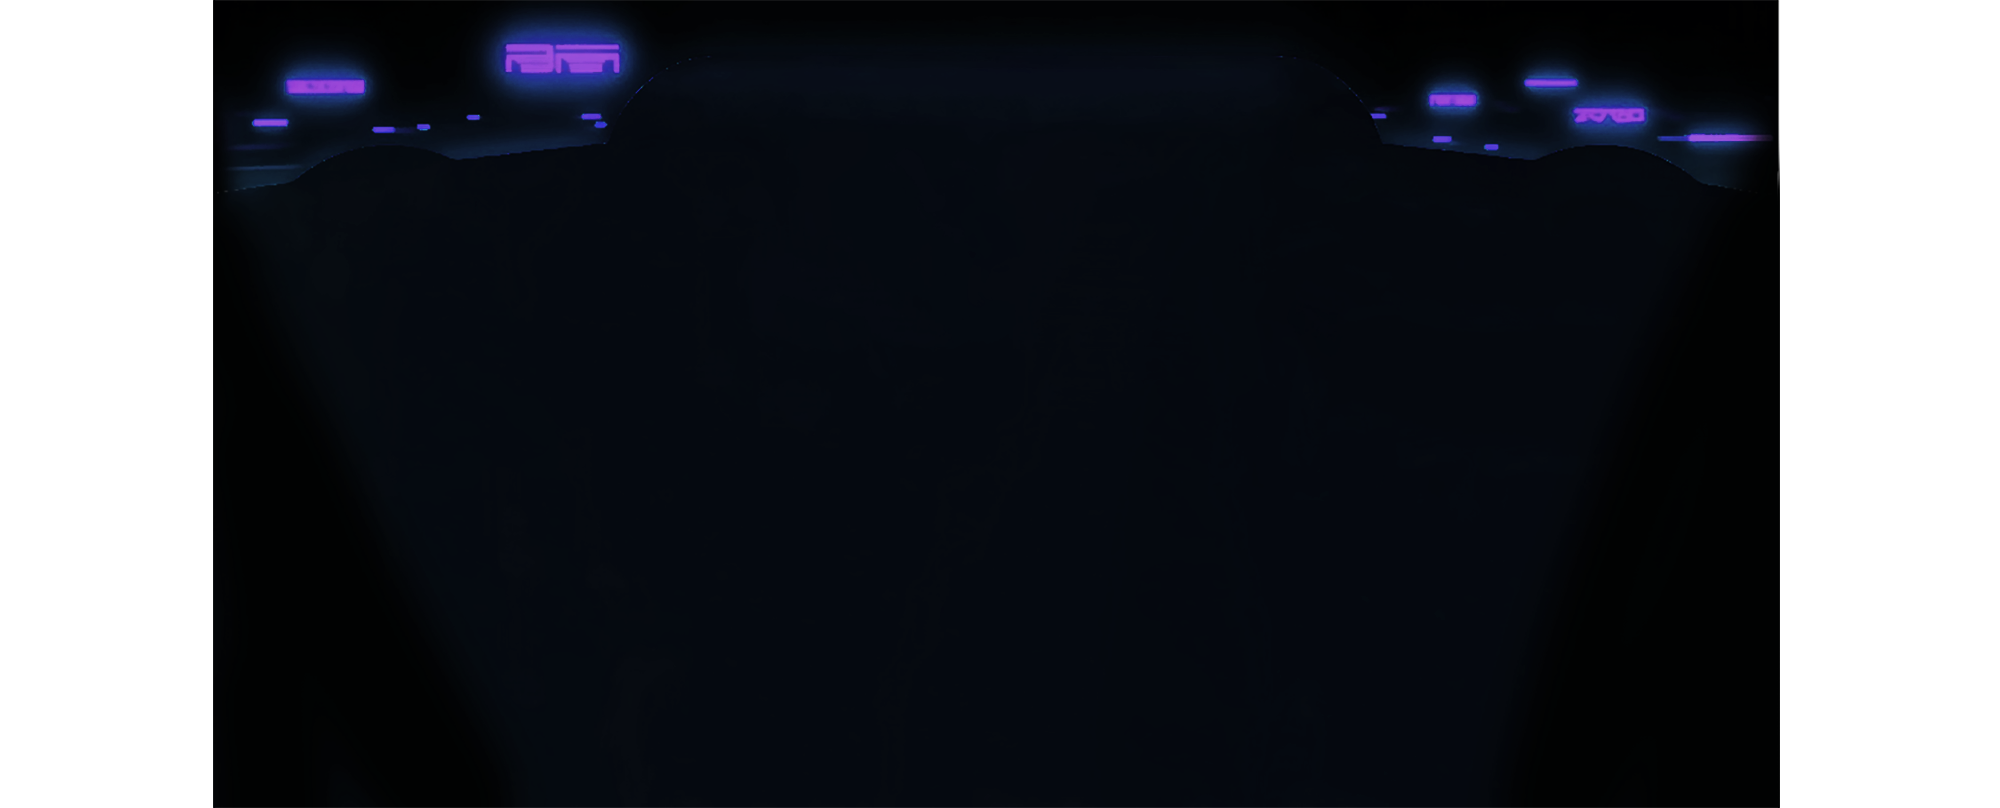
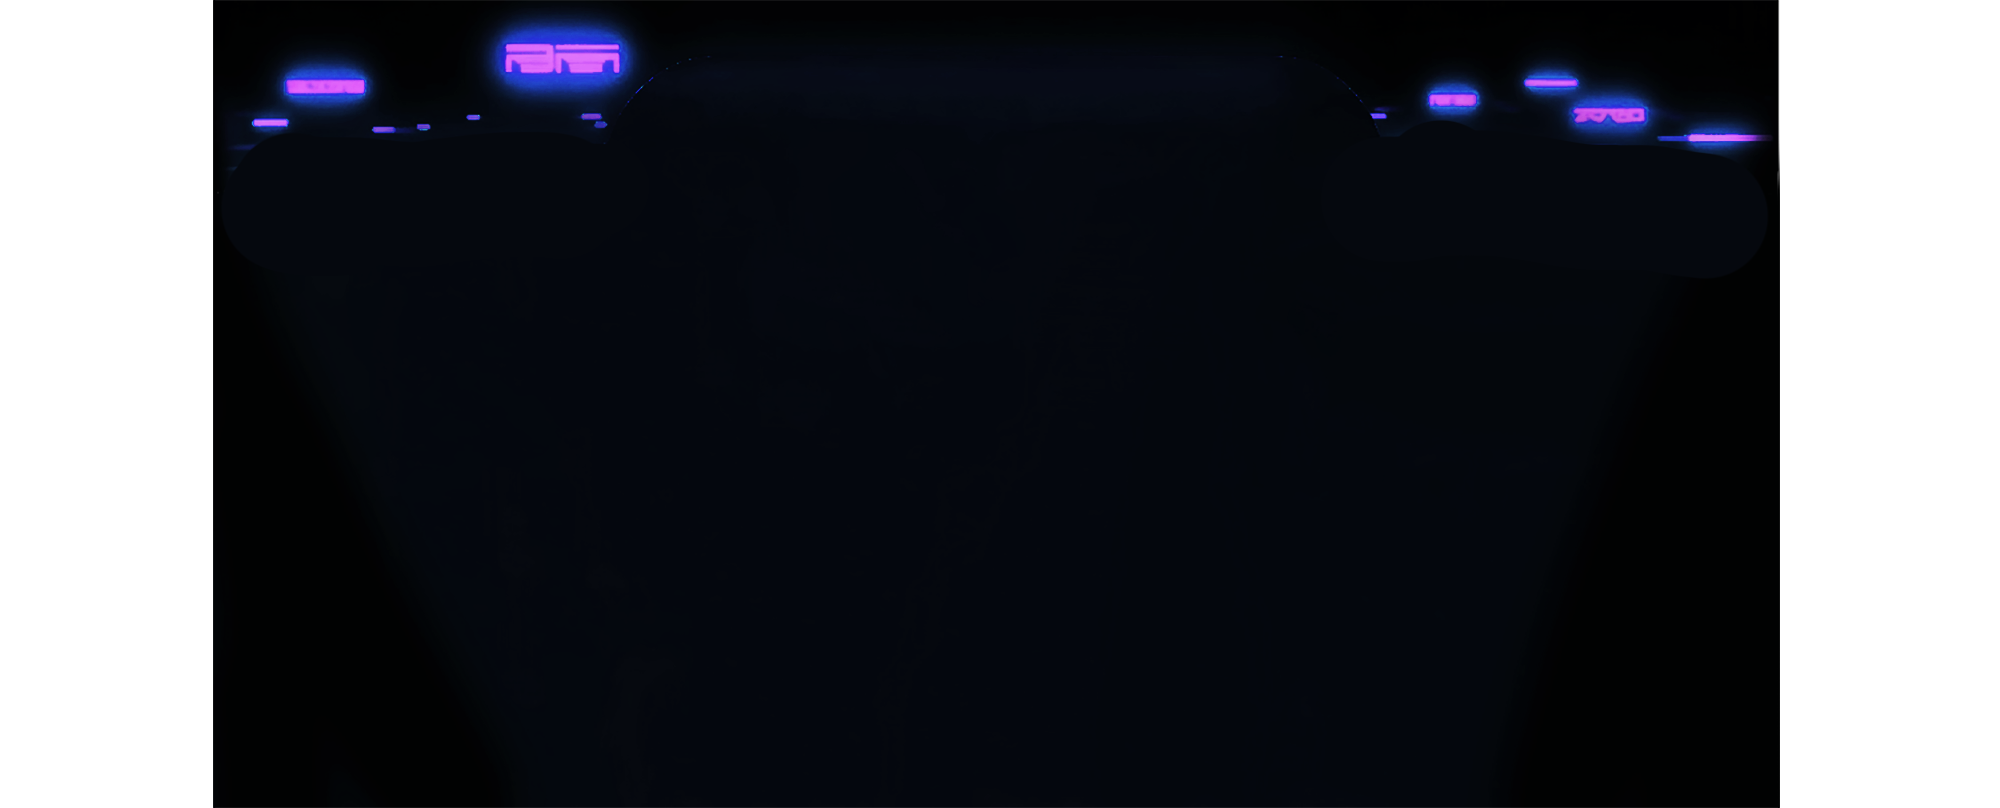
panel modifiable update

diff --git a/game-ui/assets/style.css b/game-ui/assets/style.css
@@ -97,34 +97,83 @@
         text-shadow: 0 0 10px #ff5ae4;
     }
 }
-
-#bike-panel {
+#panel-container{
+    position: absolute;
+    bottom:0;
     height: calc(50vh - 40px);
     width: 100vw;
+    transition: bottom 0.5s ease;
+    animation: panelExpand 2s ease-in-out infinite;
+}
+#display-container{
+    --panel-color: #110830;
     position: absolute;
+    margin-bottom:0;
+    height: calc(50vh - 40px);
+    width: 100vw;
+    display: flex;
+    justify-content: center;
+    transition: bottom 0.5s ease;
+}
+#panel-display{
+    margin-top: 46px;
+    padding: 0 10px;
+    height:135px;
+    width: 680px;
+    display: flex;
+    justify-content: space-between;
+    align-items: end;
+    animation: panelMarginExpand 2s ease-in-out infinite;
+}
+.circle-panel{
+    width: 130px;
+    height: 98px;
+}
+.circles{
+    background: var(--panel-color);
+    width: 98px;
+    height: 98px;
+    margin-left: 14px;
+    border-radius: 50%;
+}
+.square-panel{
+    width: 300px;
+    height: 130px;
+    display:flex;
+    justify-content: center;
+    align-items: start;
+}
+.squares{
+    background: var(--panel-color);
+    width: 300px;
+    height: 120px;
+}
+
+#bike-panel {
+    position: absolute;
+    height: 100%;
+    width: 100vw;
     z-index: 100;
     bottom: 0;
-    background: url('./items/panels/bike-panel-dark.png') no-repeat center bottom;
-    background-size: auto calc(50vh - 40px);
+    background: url('./items/panels/bike-panel-frame.png') no-repeat center bottom;
+    background-size: auto 100%;
     filter: contrast(1);
     transition: filter 0.5s ease;
     animation: panelGlow 5s ease-in-out infinite;
 }
-
 #panel-bottom {
     width: calc(50vh * 7/4);
     background: url('./items/panels/bike-panel-bg.png') no-repeat center top;
-    background-size: auto calc(50vh - 30px);
+    background-size: auto calc(50vh - 35px);
 }
-
-@keyframes panelGlow {
+/* @keyframes panelGlow {
     0% {
         filter: contrast(1) brightness(1);
         background-size: auto calc(50vh - 40px);
     }
 
     50% {
-        filter: contrast(1.5) brightness(1.5);
+        filter: contrast(1.5) brightness(1.8);
         background-size: auto calc(50vh - 30px);
     }
 
@@ -132,8 +181,52 @@
         filter: contrast(1) brightness(1);
         background-size: auto calc(50vh - 40px);
     }
-}
+} */
+@keyframes panelGlow {
+    0% {
+        filter: contrast(1) brightness(1);
+    }
 
+    50% {
+        filter: contrast(1.5) brightness(1.5);
+    }
+
+    100% {
+        filter: contrast(1) brightness(1);
+    }
+}
+@keyframes panelExpand{
+    0% {
+        height: calc(50vh - 40px);
+    }
+
+    50% {
+        height: calc(50vh - 30px);
+    }
+
+    100% {
+        height: calc(50vh - 40px);
+    }
+}
+@keyframes panelMarginExpand{
+    0% {
+        margin-top: 46px;
+        height:133px;
+        width: 680px;
+    }
+
+    50% {
+        margin-top: 38px;
+        height:136px;
+        width: 698px;
+    }
+
+    100% {
+        margin-top: 46px;
+        height:133px;
+        width: 680px;
+    }
+}
 
 /* ========== GAME BODY ========== */
 #game-body {
@@ -158,9 +251,13 @@
     background-size: cover;
     background-repeat: repeat-x;
 }
-
+.player-container{
+    transform-origin: bottom left;
+}
 .player {
     --bike-width: 121px;
+    min-height: 100px;
+    width: 95%;
 }
 .player .frame {
     position: absolute;
@@ -179,7 +276,7 @@
 }
 .player-shadow {
     z-index: 10;
-    --shadow-left: 70px;
+    --shadow-left: -30px;
     position: absolute;
     bottom: 3px;
     left: var(--shadow-left);
@@ -196,11 +293,6 @@
     width: 8%;
     margin-bottom: 8px;
     animation: redBackForth 5s infinite linear;
-}
-#red .player {
-    min-height: 100px;
-    width: 100%;
-    margin-left: 100px;
 }
 @keyframes redBackForth {
     0% {
@@ -235,11 +327,6 @@
     margin-bottom: 30px;
     animation: purpleBackForth 5s infinite linear;
 }
-#purple .player {
-    min-height: 100px;
-    width: 95%;
-    margin-left: 100px;
-}
 @keyframes purpleBackForth {
     0% {
         margin-left: var(--purple-left);
@@ -269,11 +356,6 @@
     margin-bottom: 40px;
     animation: whiteBackForth 5s infinite linear;
 }
-#white .player {
-    min-height: 100px;
-    width: 95%;
-    margin-left: 100px;
-}
 @keyframes whiteBackForth {
     0% {
         margin-left: var(--white-left);
@@ -297,8 +379,6 @@
 }
 
 
-
-
 @keyframes spin {
     from {
         transform: rotate(0deg);
@@ -315,11 +395,11 @@
     }
 
     50% {
-        transform: rotateZ(-3deg);
+        transform: rotateZ(-5deg);
     }
 
     70% {
-        transform: rotateZ(-3deg);
+        transform: rotateZ(-5deg);
     }
 
     80% {

diff --git a/game-ui/assets/js/dragDetector.js b/game-ui/assets/js/dragDetector.js
@@ -5,7 +5,7 @@ const gameBg = document.getElementById('game-bg');
 let opDefaultHeight = 50;
 const upIcon = document.getElementById('upIcon');
 const downIcon = document.getElementById('downIcon');
-const bikePanel = document.getElementById('bike-panel');
+const bikePanel = document.getElementById('panel-container');
 var heightTracker = operationBody.clientHeight;
 
 // Define an array of folders containing the background assets
@@ -14,40 +14,6 @@ const folders = [''];
 const folder = folders[Math.floor(Math.random() * folders.length)];
 // Assign the background image to the game-bg div
 gameBg.style.backgroundImage = `url('./assets/background/${folder}/bg.png')`;
-
-// function resizeOperationBody(newHeight) {
-//     // Check if the new height is within the allowed range
-//     const minHeight = 40; // Minimum height in pixels
-//     const maxHeight = window.innerHeight * 0.5 + 5;
-//     if (newHeight > maxHeight) {
-//         // Set the new height to the maximum height
-//         operationBody.style.height = `${maxHeight}px`;
-//         gameBg.style.minHeight = `${maxHeight - 6}px`;
-//     } else if (newHeight < minHeight) {
-//         // Set the new height to the minimum height
-//         operationBody.style.height = `${minHeight}px`;
-//         gameBg.style.minHeight = `${minHeight}px`;
-//     } else {
-//         // Update the height of the div
-//         operationBody.style.height = `${newHeight}px`;
-//         gameBg.style.minHeight = '50vh';
-//         // Update the margin of the game bg
-//         const gameBgHeight = window.innerHeight - newHeight;
-//         gameBg.style.height = `${gameBgHeight}px`;
-
-//         // Show/hide the up and down icons based on the height of the operationBody
-//         if (newHeight >= 50) {
-//             upIcon.style.display = 'none';
-//             downIcon.style.display = 'block';
-//         } else {
-//             upIcon.style.display = 'block';
-//             downIcon.style.display = 'none';
-//         }
-
-//         // Update heightTracker with the height of operationBody
-//         heightTracker = operationBody.offsetHeight;
-//     }
-// }
 
 dragBarBtn.addEventListener('click', function (event) {
     if (heightTracker > 50) {
@@ -65,7 +31,7 @@ dragBarBtn.addEventListener('click', function (event) {
 
         // Update the margin-bottom of bikePanel
         bikePanel.style.transition = 'all 0.3s ease';
-        bikePanel.style.marginBottom = '-55vh';
+        bikePanel.style.bottom = '-55vh';
     }
     else {
         // Set the height to 50vh with the transition effect
@@ -79,7 +45,7 @@ dragBarBtn.addEventListener('click', function (event) {
 
         // Update the margin-bottom of bikePanel
         bikePanel.style.transition = 'all 0.3s ease';
-        bikePanel.style.marginBottom = '0px';
+        bikePanel.style.bottom = '0';
     }
 });
 

diff --git a/game-ui/assets/index.html b/game-ui/assets/index.html
@@ -31,7 +31,22 @@
                         </div>
                     </div>
                 </div>
-                <div id="bike-panel" style="opacity:1"></div>
+                <div id="panel-container">
+                    <div id="bike-panel"></div>
+                    <div id="display-container">
+                        <div id="panel-display">
+                            <div class="circle-panel">
+                                <div class="circles"></div>
+                            </div>
+                            <div class="square-panel">
+                                <div class="squares"></div>
+                            </div>
+                            <div class="circle-panel">
+                                <div class="circles"></div>
+                            </div>
+                        </div>
+                    </div>
+                </div>
                 <div style="width: 100vw; height: 100vh;" class="d-flex">
                     <div class="h-100" style="width:calc((100vw - (50vh * 7/4))/2); background:#040408">
                     </div>

diff --git a/game-ui/assets/js/background.js b/game-ui/assets/js/background.js
@@ -1,7 +1,7 @@
 const layerTop = document.querySelector('.layer-top');
 let marginLeft = 0;
 const bgWidth = layerTop.offsetWidth;
-let speed = 5;
+let speed = 7;
 let acceleration = 0.0001;
 let bikeSpeed = 5.98; // meters per second
 
